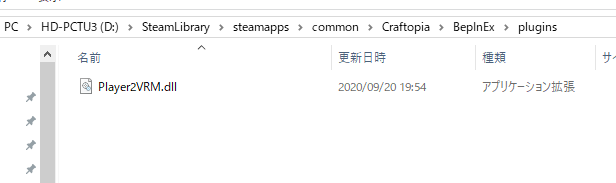
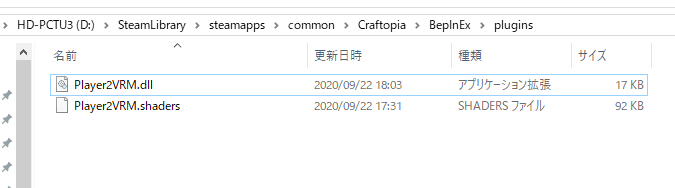
ver1.1.0

diff --git a/index.html b/index.html
@@ -112,11 +112,11 @@
 						<img src="img/img004.png">
 					</div>
 					<p>
-						② 「Player2VRM_x.x.x.zip」を解凍すると「Craftopia_Managedに入れるdll」フォルダと「Player2VRM.dll」「settings.txt」が入っています。それぞれ以下の場所に配置してください。
+						② 「Player2VRM_x.x.x.zip」を解凍すると「Craftopia_Managedに入れるdll」フォルダと「Player2VRM.dll」「Player2VRM.shaders」「settings.txt」が入っています。それぞれ以下の場所に配置してください。
 					</p>
 					<ul>
 						<li>「Craftopia_Managedに入れるdll」フォルダの<b>中身全部</b>を「<b>Craftopia/Craftopia_Data/Managed</b>」フォルダ内にいれる</li>
-						<li>「Player2VRM.dll」を「<b>Craftopia/BepInEx/plugins</b>」フォルダ内にいれる</li>
+						<li>「Player2VRM.dll」と「Player2VRM.shaders」を「<b>Craftopia/BepInEx/plugins</b>」フォルダ内にいれる</li>
 						<li>「settings.txt」を[3. 始める前の準備]で説明する「Player2VRM」フォルダ内にいれる</li>
 					</ul>
 					<div class="box">
@@ -189,7 +189,7 @@
 						① 「Craftopia」フォルダにある「Player2VRM」フォルダを削除してください。
 					</p>
 					<p>
-						① 「Craftopia/BepInEx/plugins」フォルダにある「Player2VRM.dll」を削除してください。
+						① 「Craftopia/BepInEx/plugins」フォルダにある「Player2VRM.dll」「Player2VRM.shaders」を削除してください。
 					</p>
 					<p>
 						以上で本MODのアンインストールは完了です。
@@ -200,6 +200,10 @@
 					<h3 class="title is-3">
 						更新履歴
 					</h3>
+					<label class="label">ver 1.1.0</label>
+					<ul>
+						<li>VRM用のシェーダ(Standard, UniGLTF, VRM/MToon等)をそのまま使える様に改善</li>
+					</ul>
 					<label class="label">ver 1.0.6</label>
 					<ul>
 						<li>元の髪の毛が残るバグを修正</li>

diff --git a/Player2VRM/Properties/AssemblyInfo.cs b/Player2VRM/Properties/AssemblyInfo.cs
@@ -32,5 +32,5 @@ using System.Runtime.InteropServices;
 // すべての値を指定するか、次を使用してビルド番号とリビジョン番号を既定に設定できます
 // 既定値にすることができます:
 // [assembly: AssemblyVersion("1.0.*")]
-[assembly: AssemblyVersion("1.0.7.0")]
-[assembly: AssemblyFileVersion("1.0.7.0")]
+[assembly: AssemblyVersion("1.1.0.0")]
+[assembly: AssemblyFileVersion("1.1.0.0")]

diff --git a/Player2VRM/Player2VRM.cs b/Player2VRM/Player2VRM.cs
@@ -343,6 +343,7 @@ namespace Player2VRM
                 var assets = assetBundle.LoadAllAssets<Shader>();
                 foreach (var asset in assets)
                 {
+                    UnityEngine.Debug.Log("Add Shader: " + asset.name);
                     Shaders.Add(asset.name, asset);
                 }
             }

diff --git a/Player2VRM/MainPlugin.cs b/Player2VRM/MainPlugin.cs
@@ -14,7 +14,7 @@ namespace Player2VRM
     {
         public const string PluginGuid = "com.yoship1639.plugins.player2vrm";
         public const string PluginName = "Player2VRM";
-        public const string PluginVersion = "1.0.7.0";
+        public const string PluginVersion = "1.1.0.0";
 
         void Awake()
         {
